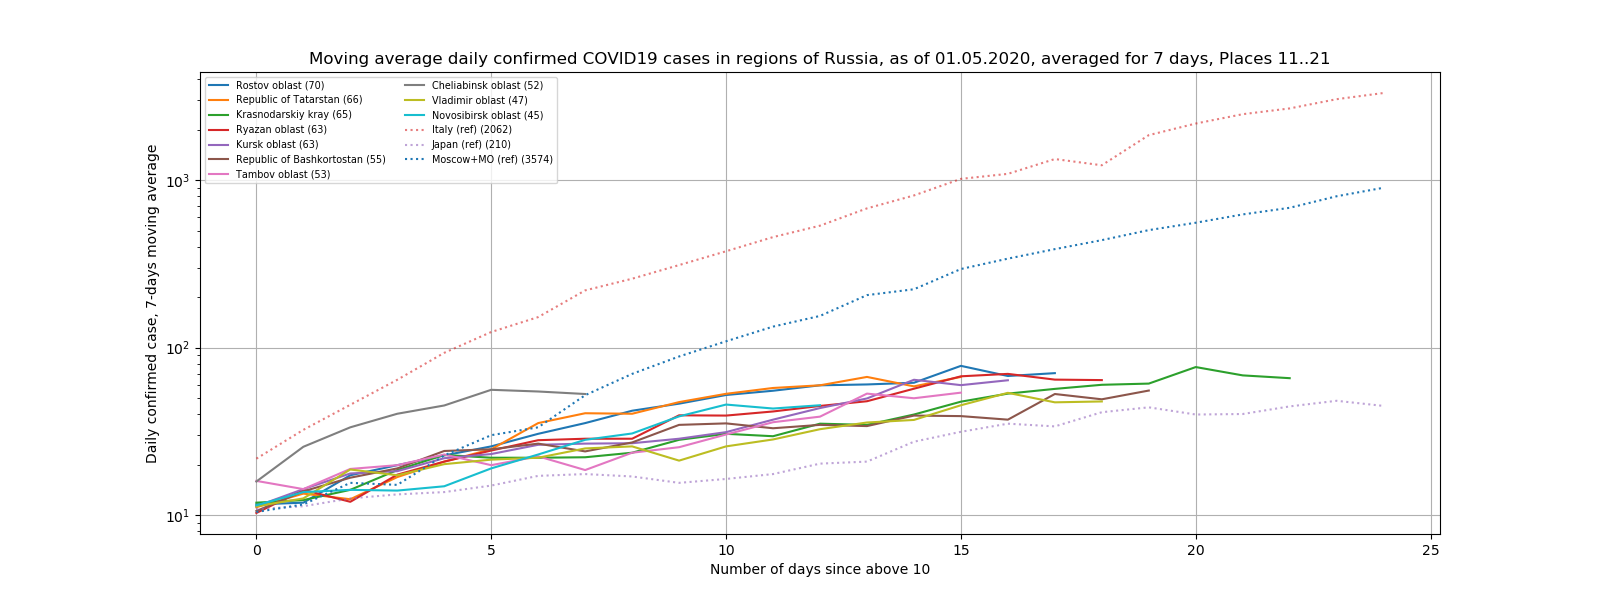
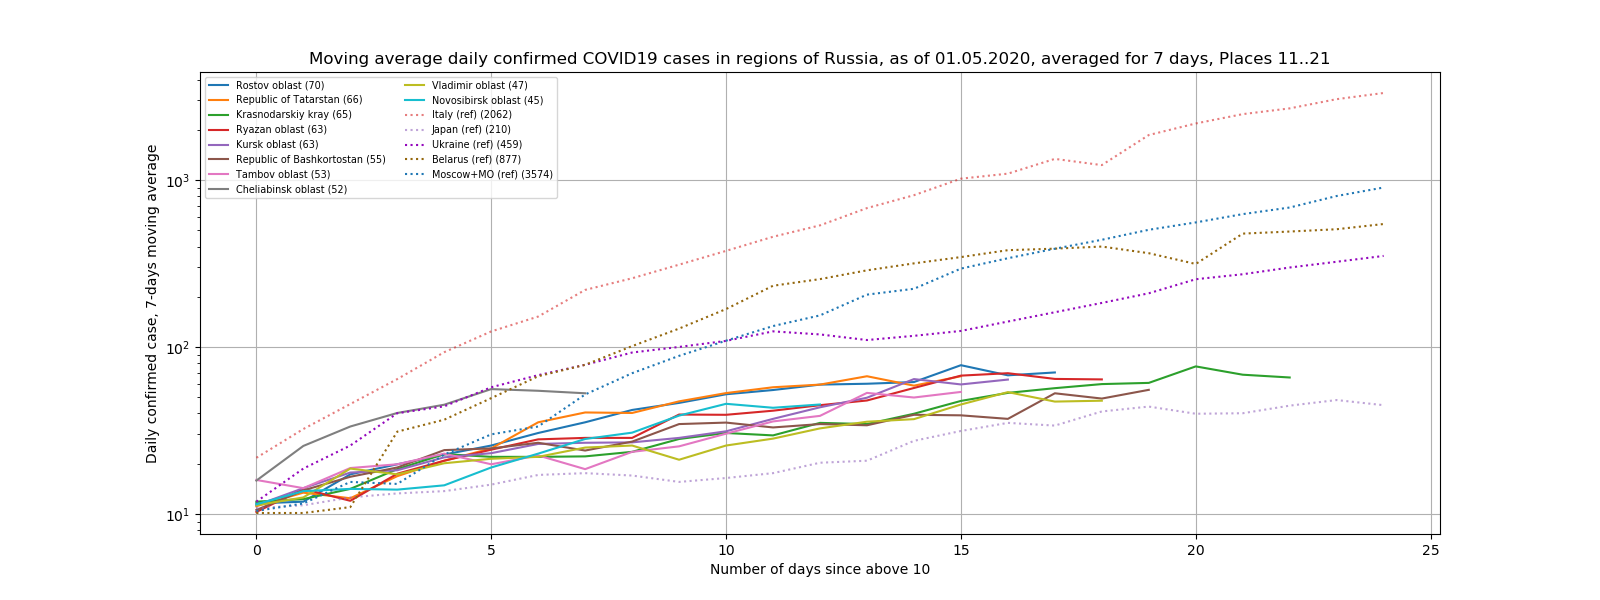
Update plots, add Ukraine and Belarus

diff --git a/python3/src/covid19ru/plot.py b/python3/src/covid19ru/plot.py
@@ -105,6 +105,8 @@ def plot_(metric_fn,
   out.update({k:v for k,v in tls_list})
   out[('', 'Italy (ref)')]=list(timelines(country_region='Italy', default_loc='').values())[0]
   out[('', 'Japan (ref)')]=list(timelines(country_region='Japan', default_loc='').values())[0]
+  out[('', 'Ukraine (ref)')]=list(timelines(country_region='Ukraine', default_loc='').values())[0]
+  out[('', 'Belarus (ref)')]=list(timelines(country_region='Belarus', default_loc='').values())[0]
   if ('Moscow+MO','Russia') not in out and ('Moscow+MO','Russia') in tls:
     out.update({('Moscow+MO (ref)','Russia'):tls[('Moscow+MO','Russia')]})
   lastdate=out[tls_list[0][0]].dates[-1]
@@ -156,17 +158,25 @@ def plot_(metric_fn,
       if label is None:
         label={'Russia':'Россия',
                'Italy (ref)':'Италия (справ.)',
-               'Japan (ref)':'Япония (справ.)'}.get(cr,cr)
+               'Japan (ref)':'Япония (справ.)',
+               'Ukraine (ref)':'Украина (справ.)',
+               'Belarus (ref)':'Беларусь (справ.)',
+               }.get(cr,cr)
     else:
       label=ps or cr
     label+=f" ({int(metric_fn(tl)[-1])})"
 
     alpha=0.6 if cr in ['Italy (ref)','Japan (ref)'] else 1.0
     color={'Italy (ref)':'#d62728',
-           'Japan (ref)':'#9467bd'}.get(cr)
+           'Japan (ref)':'#9467bd',
+           'Ukraine (ref)':'#9407bd',
+           'Belarus (ref)':'#94670d',
+           }.get(cr)
     ls={'Moscow+MO (ref)':':'}.get(ps,
           {'Italy (ref)':':',
            'Japan (ref)':':',
+           'Ukraine (ref)':':',
+           'Belarus (ref)':':',
           }.get(cr))
     p=plt.plot(ticks, metric, label=label, alpha=alpha, color=color, linestyle=ls)
 
